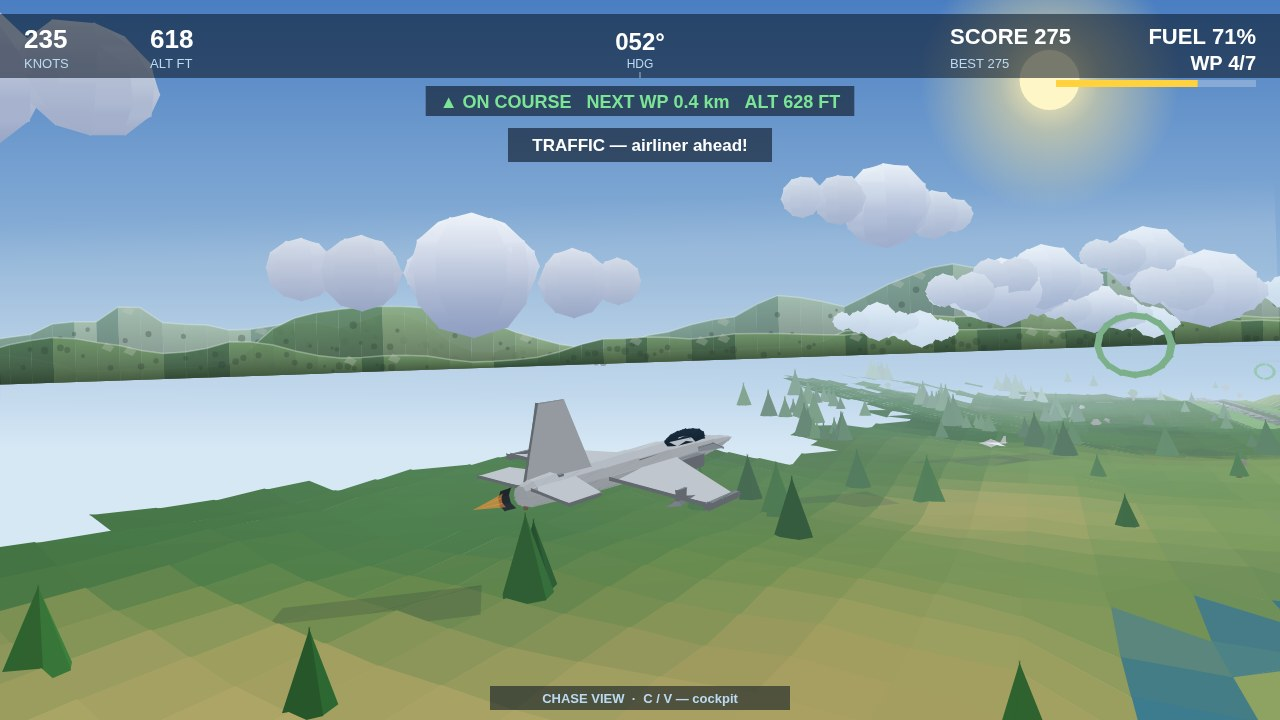
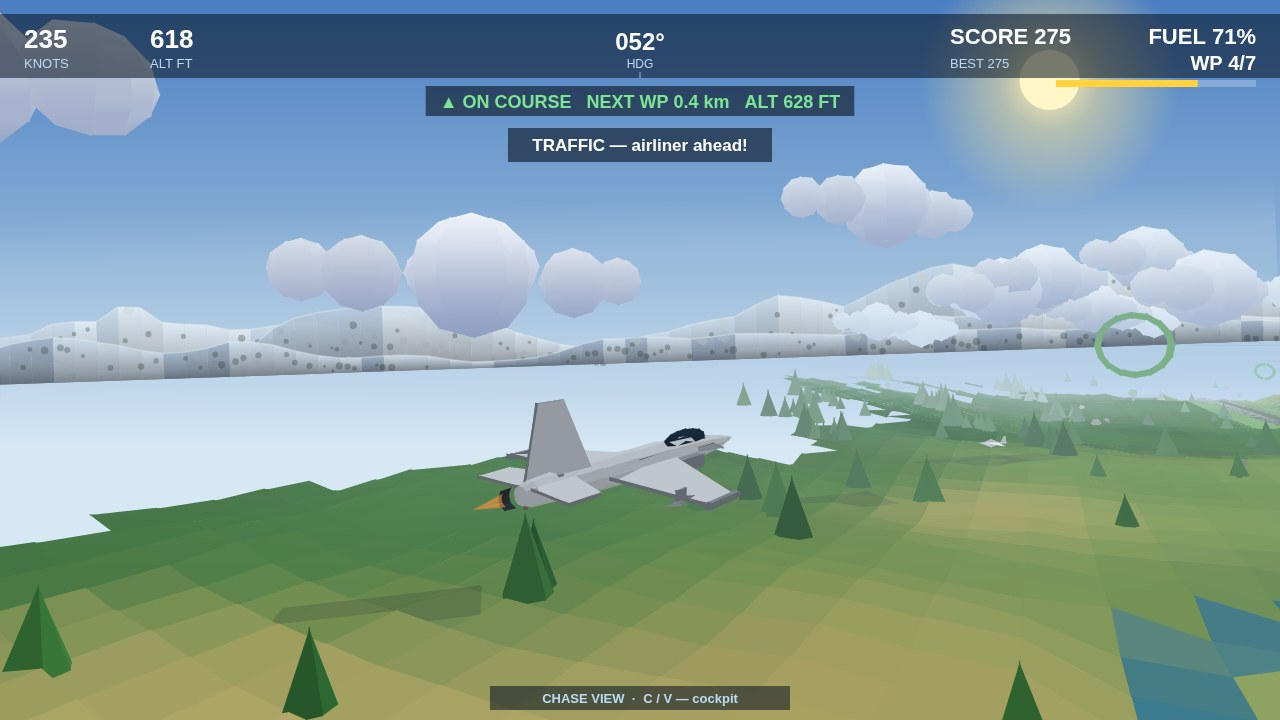
v21: snowy north mountains + frozen lake + frozen north beach; storm shot now TPP chase view

Changed region(s): [[0.0, 0.3667, 1.0, 0.55], [0.875, 0.3972, 0.9062, 0.4278], [0.8438, 0.3667, 0.875, 0.3972]]

diff --git a/game/src/gl3d.js b/game/src/gl3d.js
@@ -558,19 +558,19 @@ export function terrainFaceColor(world, wx, wz, h) {
       const rr = isl.d / isl.island.r;
       const t = 1 - sstep(0.55, 0.9, rr + mot * 0.05);
       const land = mix3(shadeArr([216, 198, 158], 1 + fine * 0.05), shadeArr([92, 140, 82], 1 + mot * 0.12 + fine * 0.05), t);
-      c = mix3(c, land, sstep(0, 12, h + 4 * vnoise2(wx * 0.003 + 4, wz * 0.003 - 8))); // wiggly island waterline, never a staircase
+      c = mix3(c, land, sstep(0, 12, h + 4 * vnoise2(wx * 0.003 + 4, wz * 0.003 - 8)));
     }
     if (h > 9 && fo > 0) c = mix3(c, canopy, fo * 0.85);
-    const sh = sstep(-200, 80, wx - coastX(wz) + 90 * vnoise2(wx * 0.003 + 4, wz * 0.003 - 8)); // shallows grading into a wiggly waterline (v16: no hard step, no staircase)
+    const sh = sstep(-200, 80, wx - coastX(wz) + 90 * vnoise2(wx * 0.003 + 4, wz * 0.003 - 8));
     if (sh > 0) c = mix3(c, shadeArr([198, 176, 132], 1 + fine * 0.04), sh * 0.85);
     return c;
   }
   if (dist === 'beach') {
-    const d = wx - coastX(wz) + 90 * vnoise2(wx * 0.003 + 4, wz * 0.003 - 8); // wiggly waterline: the shore curves, never a staircase
+    const d = wx - coastX(wz) + 90 * vnoise2(wx * 0.003 + 4, wz * 0.003 - 8);
     const sea = shadeArr([40, 118, 178], 1 + fine * 0.05);
     const wet = shadeArr([198, 176, 132], 1 + fine * 0.04);
     const dune = Math.sin((wx * 0.35 + wz) * 0.03 + mot * 1.6);
-    const dry = shadeArr([216, 190, 138], 1 + dune * 0.07 + mot * 0.06 + fine * 0.04);
+    const dry = shadeArr(mix3([216, 190, 138], [186, 204, 218], sstep(3000, 3400, wz + 300 * mot)), 1 + dune * 0.07 + mot * 0.06 + fine * 0.04);
     return mix3(mix3(sea, wet, sstep(-200, 80, d)), dry, sstep(80, 480, d));
   }
   if (dist === 'city') {
@@ -609,18 +609,19 @@ export function terrainFaceColor(world, wx, wz, h) {
       const edge = clamp(0.5 + patch * 0.9, 0, 1);
       c = shadeArr(mix3(field, [122, 152, 92], edge * 0.6), light * (1 + mot * 0.08 + fine * 0.04 + grain * 0.03));
     } else if (high > 118) {
-      c = shadeArr(mix3([62, 100, 62], [104, 98, 88], sstep(-0.1, 0.3, patch)), light * (1 + mot * 0.08 + fine * 0.04 + grain * 0.03));
+      c = shadeArr(mix3([232, 238, 244], [246, 248, 250], sstep(-0.1, 0.3, patch)), light * (1 + mot * 0.08 + fine * 0.04 + grain * 0.03));
     } else {
       const forest = mix3([96, 146, 86], [84, 132, 80], sstep(-0.2, 0.2, patch));
       const fine2 = vnoise2(wx * 0.008 + 3, wz * 0.008 - 8);
       c = shadeArr(forest, light * (1 + mot * 0.12 + fine * 0.05 + fine2 * 0.06 + grain * 0.03));
       c = shadeArr(c, 1 - 0.12 * sstep(0.35, 0.75, patch2));
+      c = mix3(c, shadeArr([238, 244, 250], light), sstep(96, 118, high));
     }
     if (Math.abs(slope) > 0.55 && high > 60) c = shadeArr([108, 102, 92], light * (1 + mot * 0.06 + grain * 0.03));
     if (fo > 0) c = mix3(c, canopy, fo * 0.85);
     if (high < 60 && dr < 45) {
       const dw = dr + 7 * vnoise2(wx * 0.0025 + 9, wz * 0.0025 - 4);
-      const w = 16 + 14 * (0.5 + 0.5 * vnoise2(wx * 0.002 + 3, wz * 0.002 - 7)); // width varies: pools and narrows, a winding stream
+      const w = 16 + 14 * (0.5 + 0.5 * vnoise2(wx * 0.002 + 3, wz * 0.002 - 7));
       const river = 1 - sstep(w, w + 8, dw);
       const bank = (1 - sstep(w + 5, w + 11, dw)) * (1 - river);
       c = mix3(c, shadeArr([198, 186, 140], light), bank);
@@ -629,7 +630,7 @@ export function terrainFaceColor(world, wx, wz, h) {
     return c;
   }
   const lakeD = Math.hypot(wx - MAP.lake.x, wz - MAP.lake.z);
-  const lake = 1 - sstep(lakeR(wx, wz) - 30, lakeR(wx, wz) + 30, lakeD); // soft organic shoreline, never a quad edge
+  const lake = 1 - sstep(lakeR(wx, wz) - 30, lakeR(wx, wz) + 30, lakeD);
   const patch = vnoise2(wx * 0.006 + 31, wz * 0.006 + 11);
   const patchB = vnoise2(wx * 0.0035 - 17, wz * 0.0035 + 29);
   const w1 = sstep(-0.55, -0.05, patchB);
@@ -648,13 +649,13 @@ export function terrainFaceColor(world, wx, wz, h) {
   if (hedge > 0) base = mix3(base, shadeArr([74, 104, 58], sub * (1 + mot * 0.08)), hedge * 0.85);
   if (dr < 45) {
     const dw = dr + 7 * vnoise2(wx * 0.0025 + 9, wz * 0.0025 - 4);
-    const w = 16 + 14 * (0.5 + 0.5 * vnoise2(wx * 0.002 + 3, wz * 0.002 - 7)); // width varies: pools and narrows, a winding stream
+    const w = 16 + 14 * (0.5 + 0.5 * vnoise2(wx * 0.002 + 3, wz * 0.002 - 7));
     const river = 1 - sstep(w, w + 8, dw);
     const bank = (1 - sstep(w + 5, w + 11, dw)) * (1 - river);
     base = mix3(base, shadeArr([198, 186, 140], 1), bank);
     base = mix3(base, shadeArr([64, 128, 148], 1 + fine * 0.06), river);
   }
-  if (lake > 0) base = mix3(base, shadeArr([58, 124, 158], 1 + fine * 0.08), lake);
+  if (lake > 0) base = mix3(base, shadeArr(mix3([58, 124, 158], [188, 210, 224], sstep(-0.2, 0.4, patch)), 1 + fine * 0.08), lake);
   return fo > 0 ? mix3(base, canopy, fo * 0.85) : base;
 }
 
@@ -964,7 +965,7 @@ function buildBuilding(mesh, prop, gy, H, rwA, rwB) {
   const h3 = hash2(seed + 29, seed + 41);
   const w = (prop.kind === 'building' ? 22 : 30) * s;
   const h = (prop.kind === 'building' ? 38 : 58) * s;
-  const glassTints = [[104, 102, 98], [100, 100, 98], [108, 106, 100], [96, 102, 94], [96, 72, 52], [140, 138, 134]]; // warm neutral glass, no blue cast (v16: the blue panels read as random blue blobs)
+  const glassTints = [[104, 102, 98], [100, 100, 98], [108, 106, 100], [96, 102, 94], [96, 72, 52], [140, 138, 134]];
   const frameTints = [[198, 206, 214], [226, 220, 208], [96, 84, 70]];
   const wallTints = [[198, 172, 138], [176, 112, 84], [226, 214, 190], [170, 162, 150], [156, 92, 70], [210, 196, 158], [190, 150, 120], [120, 110, 100]];
   const glass = glassTints[Math.floor(h1 * glassTints.length) % glassTints.length];
@@ -1040,7 +1041,7 @@ export function buildProps(world) {
     if (prop.kind === 'building' || prop.kind === 'building2') {
       buildBuilding(mesh, prop, gy, H, world.runwayA, world.runwayB);
     } else if (prop.kind === 'landmark') {
-      tower(mesh, prop.x, prop.z, gy, 34, 95, 0, [78, 80, 84], [198, 206, 214], [170, 162, 150], [74, 80, 88], 12345); // v16: landmark glass neutral grey, was vivid blue [52,84,124]
+      tower(mesh, prop.x, prop.z, gy, 34, 95, 0, [78, 80, 84], [198, 206, 214], [170, 162, 150], [74, 80, 88], 12345);
       coneY(mesh, prop.x, gy + 96.4, prop.z, 1.2, 18, 5, [90, 94, 100]);
       boxAt(mesh, prop.x, gy + 97, prop.z, 8, 1.2, 8, [198, 206, 214]);
     } else if (prop.kind === 'palm') {

diff --git a/game/src/render.js b/game/src/render.js
@@ -97,7 +97,7 @@ export function createRenderer(canvas) {
       sea: [['rgba(70,88,88,0.8)', 'rgba(116,134,132,0.8)'], ['rgba(52,68,68,0.88)', 'rgba(92,110,108,0.88)'], ['rgba(36,50,50,0.92)', 'rgba(70,88,86,0.92)']],
       beach: [['rgba(110,128,88,0.8)', 'rgba(168,178,132,0.8)'], ['rgba(84,102,64,0.88)', 'rgba(138,150,104,0.88)'], ['rgba(60,78,46,0.92)', 'rgba(108,122,80,0.92)']],
     };
-    const ridgePal = ridgePalettes[level.ridge] || [['rgba(96,138,110,0.8)', 'rgba(150,180,150,0.8)'], ['rgba(70,118,70,0.88)', 'rgba(120,160,105,0.88)'], ['rgba(48,92,52,0.92)', 'rgba(88,132,76,0.92)']];
+    const ridgePal = ridgePalettes[level.ridge] || [['rgba(206,222,236,0.8)', 'rgba(236,244,250,0.8)'], ['rgba(178,198,220,0.88)', 'rgba(222,234,244,0.88)'], ['rgba(150,172,198,0.92)', 'rgba(204,220,236,0.92)']];
     const horizonY = HORIZON_Y + FOCAL * Math.sin(state.pitch);
     ctx.save();
     ctx.translate(CX, horizonY);

diff --git a/game/src/shots.js b/game/src/shots.js
@@ -154,7 +154,7 @@ export function stageShot(name, world) {
       const events = world.step(SAMPLE, { x: a.sx, y: a.sy }, a.td, false, false);
       if (events & EVENT_OVER) break;
     }
-    return { screen: world.state.over ? SCREEN_OVER : SCREEN_PLAY, best: world.state.score, view: 'FPP' };
+    return { screen: world.state.over ? SCREEN_OVER : SCREEN_PLAY, best: world.state.score, view: 'TPP' };
   }
   if (name === 'landing') {
     // Full leg: waypoints, then the final approach — stop on final, 900 m
